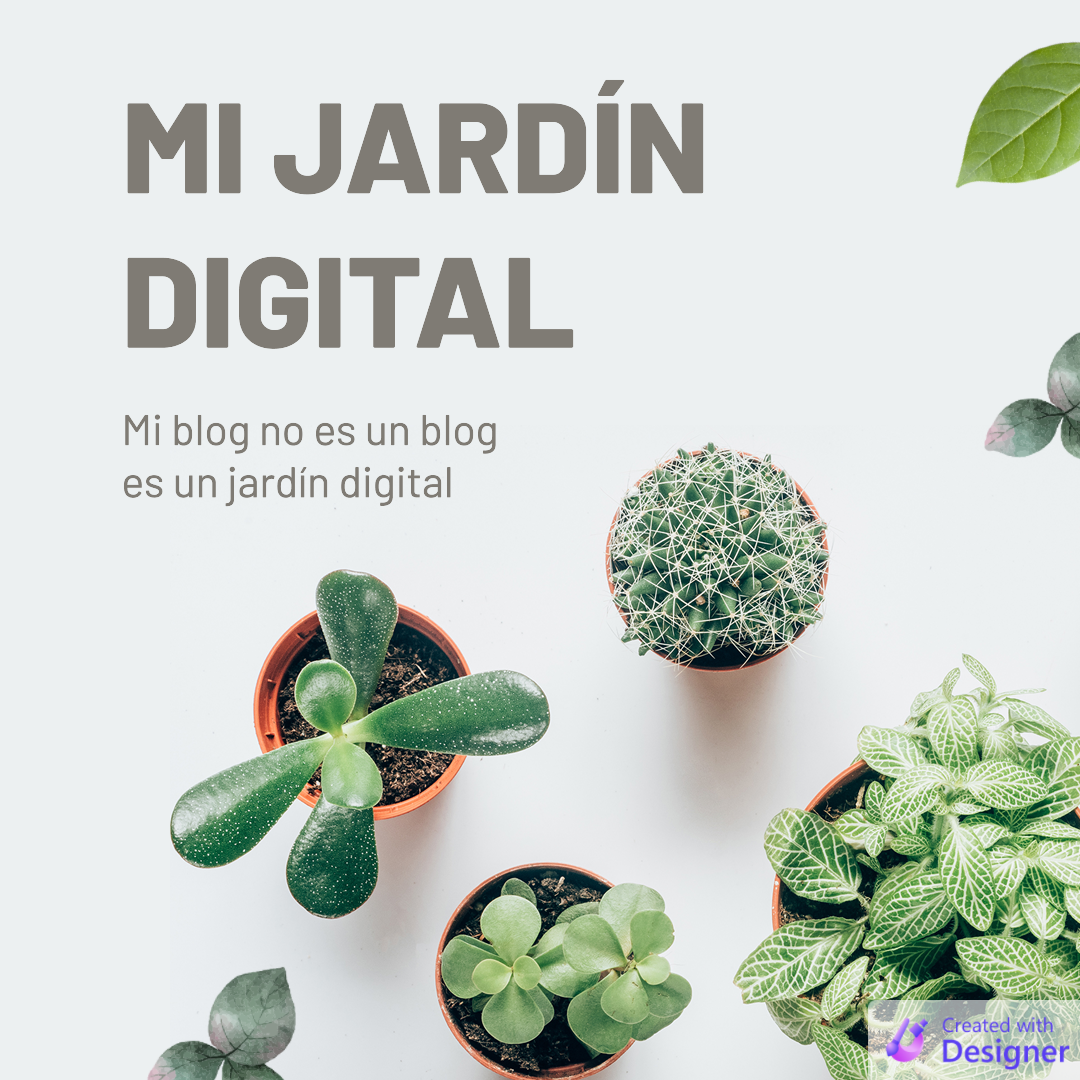
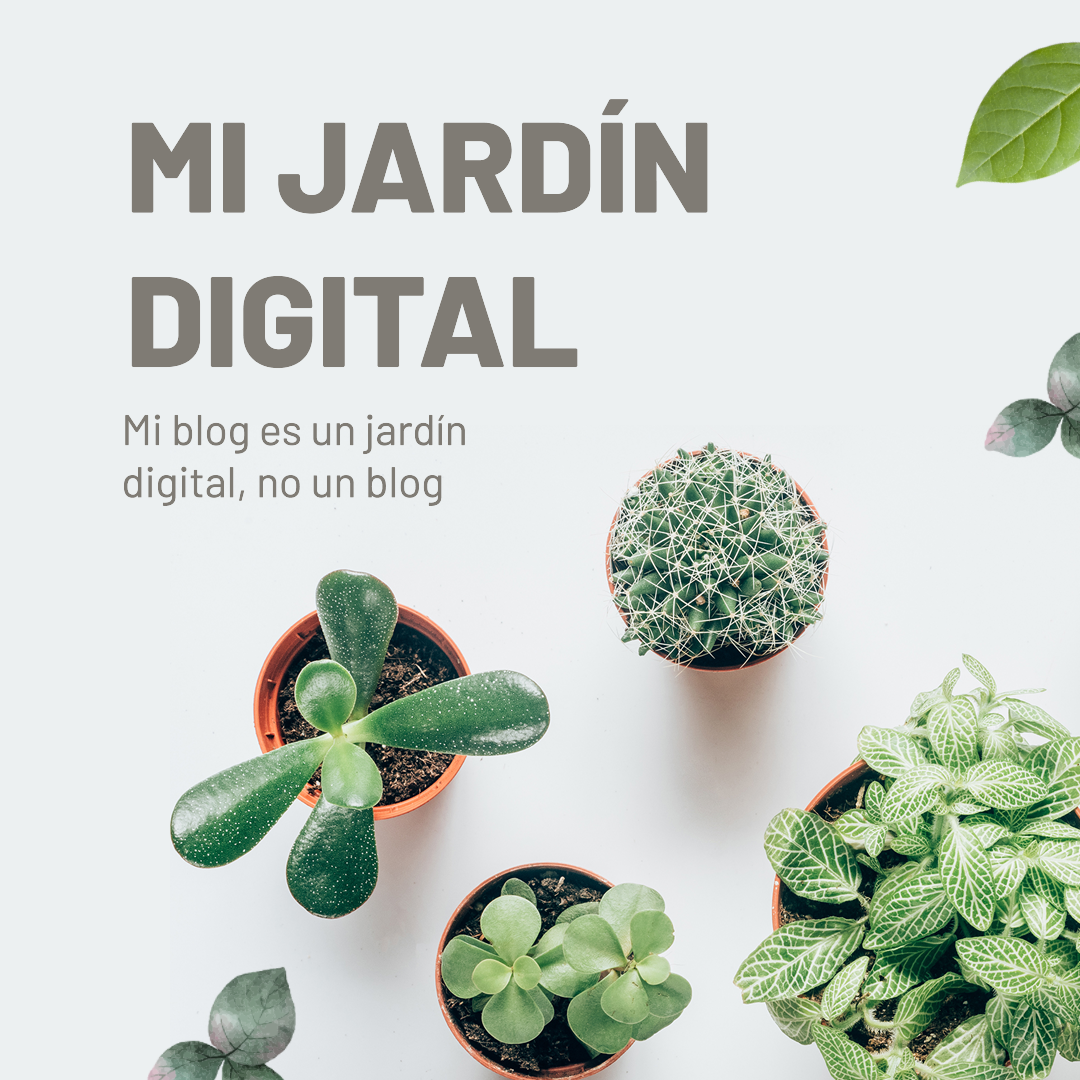
UPDATE: post

Changed region(s): [[0.0917, 0.0611, 0.6722, 0.3667], [0.1222, 0.3667, 0.4583, 0.4889], [0.7944, 0.9167, 1.0, 1.0]]

diff --git a/pages/historias.jsx b/pages/historias.jsx
@@ -1,3 +1,4 @@
+import Activelink from "../components/atoms/activeLink";
 import Container from "../components/templates/container";
 import Layout from "../components/templates/layout";
 
@@ -16,6 +17,9 @@ export default function Historias() {
                         <input className="w-full md:w-80  py-2 px-4 border text-gray-800 border-gray-200 bg-white" type="email" placeholder="Ingresa tu correo electrónico"/>
                         <button className="bg-blue-600 hover:bg-blue-700 text-white py-2 px-4 border">Notifícame cuando este listo</button>
                     </form> */}
+                    <button className="bg-blue-600 hover:bg-blue-700 text-white py-2 px-4 border">
+                        <Activelink href="/">Volver al Inicio</Activelink>
+                    </button>
                 </div>
             </div>
         </>

diff --git a/components/molecules/navbar.jsx b/components/molecules/navbar.jsx
@@ -9,13 +9,9 @@ function Navbar() {
   return (
     <>
       <nav
-        className="flex items-center w-full justify-between h-[4rem] lg:h-28 fixed left-0 right-0 top-0 mx-auto z-40 px-6 md:px-32 lg:px-56 xl:px-80 text-xl font-semibold`}
+        className="flex lg:flex-initial text-brand-beige text-xl font-semibold`}
       ">
-        <figure
-          className="flex items-center justify-center w-10 h-10 cursor-pointer lg:hidden"
-        >
-        </figure>
-        <div className="flex items-center">
+        <div className="flex">
           <Activelink href="/">Inicio</Activelink>
           <Activelink href="/blog">Blog</Activelink>
         </div>

diff --git a/components/atoms/activeLink.jsx b/components/atoms/activeLink.jsx
@@ -11,7 +11,7 @@ const Activelink = ({href, children}) => {
     router.push(href)
   }
   return (
-    <a href={href} onClick={handleClick} style={style} className="mr-8 first:mr-10 dark:text-primary-dark text-primary-text hidden lg:block transition-all duration-200 hover:pb-2 hover:border-b-2 hover:border-primary-text hover:dark:border-primary-dark">
+    <a href={href} onClick={handleClick} style={style} className="mr-8 hidden lg:block transition-all duration-200 hover:pb-2 hover:border-b-2 hover:border-brand-beige">
       {children}
     </a>
   );

diff --git a/components/templates/layout.jsx b/components/templates/layout.jsx
@@ -7,7 +7,7 @@ export default function Layout({ children }) {
         <main>{children}</main>
       </div>
       <Footer />
-      <p className="bg-brand-coal font-outfit text-center text-[1rem] md:text-lg text-brand-yellow px-8 md:px-32 lg:px-56 xl:px-80">
+      <p className="bg-brand-coal font-outfit text-center text-[1rem] md:text-lg text-brand-yellow px-8 md:px-32 lg:px-56 lg:pt-8 xl:px-80">
         Hecho con 💙 durante la cuarentena
       </p>
       <p className="bg-brand-coal text-center py-6 font-outfit text-brand-yellow">

diff --git a/components/atoms/postTitle.jsx b/components/atoms/postTitle.jsx
@@ -1,6 +1,6 @@
 export default function PostTitle({ children }) {
   return (
-    <h1 className="font-averia text-center pt-12 text-4xl sm:text-5xl tracking-tight leading-tight md:text-6 md:leading-none mb-6 mx-8 md:mx-32 lg:mx-56 xl:mx-80 mt-24 dark:text-brand-beige text-[#3d4449]">
+    <h1 className="font-averia pt-16 text-center text-4xl sm:text-5xl tracking-tight leading-tight md:text-6 md:leading-none my-6 mx-8 md:mx-32 lg:mx-56 xl:mx-80 dark:text-brand-beige text-[#3d4449]">
       {children}
     </h1>
   );

diff --git a/components/molecules/footer.jsx b/components/molecules/footer.jsx
@@ -57,7 +57,7 @@ const dataFooter = [
 export default function Footer() {
   return (
     <footer className="font-outfit bg-brand-coal w-full py-16 md:pb-0 md:px-32 lg:px-56 xl:px-80">
-      <ul className="grid grid-cols-2 py-16 bg-brand-charcoal lg:grid-cols-3 lg:pb-24 mx-4 rounded-xl">
+      <ul className="grid grid-cols-2 py-16 bg-brand-charcoal lg:grid-cols-3 mx-4 rounded-xl">
         {dataFooter.map(({ id, href, target, rel, text }) => (
           <ItemFooter
             key={id}

diff --git a/components/molecules/post-header.jsx b/components/molecules/post-header.jsx
@@ -5,7 +5,7 @@ import PostTitle from "../atoms/postTitle";
 export default function PostHeader({ title, date, author, excerpt }) {
   return (
     <>
-      <div className="py-8 lg:pb-10">
+      <div className="lg:pb-10">
         <PostTitle>{title}</PostTitle>
         <div className="mx-8 md:mx-32 lg:mx-56 xl:mx-80 py-8">
           <div className="flex place-items-center justify-between text-md text-brand-beige">

diff --git a/components/molecules/markdown-styles.module.css b/components/molecules/markdown-styles.module.css
@@ -3,7 +3,7 @@
 }
 
 .markdown em {
-  @apply font-firacode text-brand-beige text-base rounded-sm tracking-[-.2px] bg-brand-charcoal py-[2px] px-[5px] not-italic;
+  @apply font-firacode text-brand-pink text-base rounded-sm tracking-[-.2px] bg-brand-charcoal py-[2px] px-[5px] not-italic;
 }
 
 .markdown strong {

diff --git a/_posts/jardin-digital.md b/_posts/jardin-digital.md
@@ -2,7 +2,7 @@
 title: "🌱 Mi blog es un jardín digital, no un blog"
 date: "2022-03-23"
 excerpt: "Mi Jardín digital se centra menos en la pieza resultante y más en el proceso, cuidado y artesanía que se necesita para llegar allí."
-coverImage: "/assets/blog/jardin-digital/jardin-digital.webp"
+coverImage: "/assets/blog/jardin-digital/gardenDigital.png"
 author:
   name: Wilson Quispe
   picture: "/assets/blog/authors/profileWilson.jpg"
